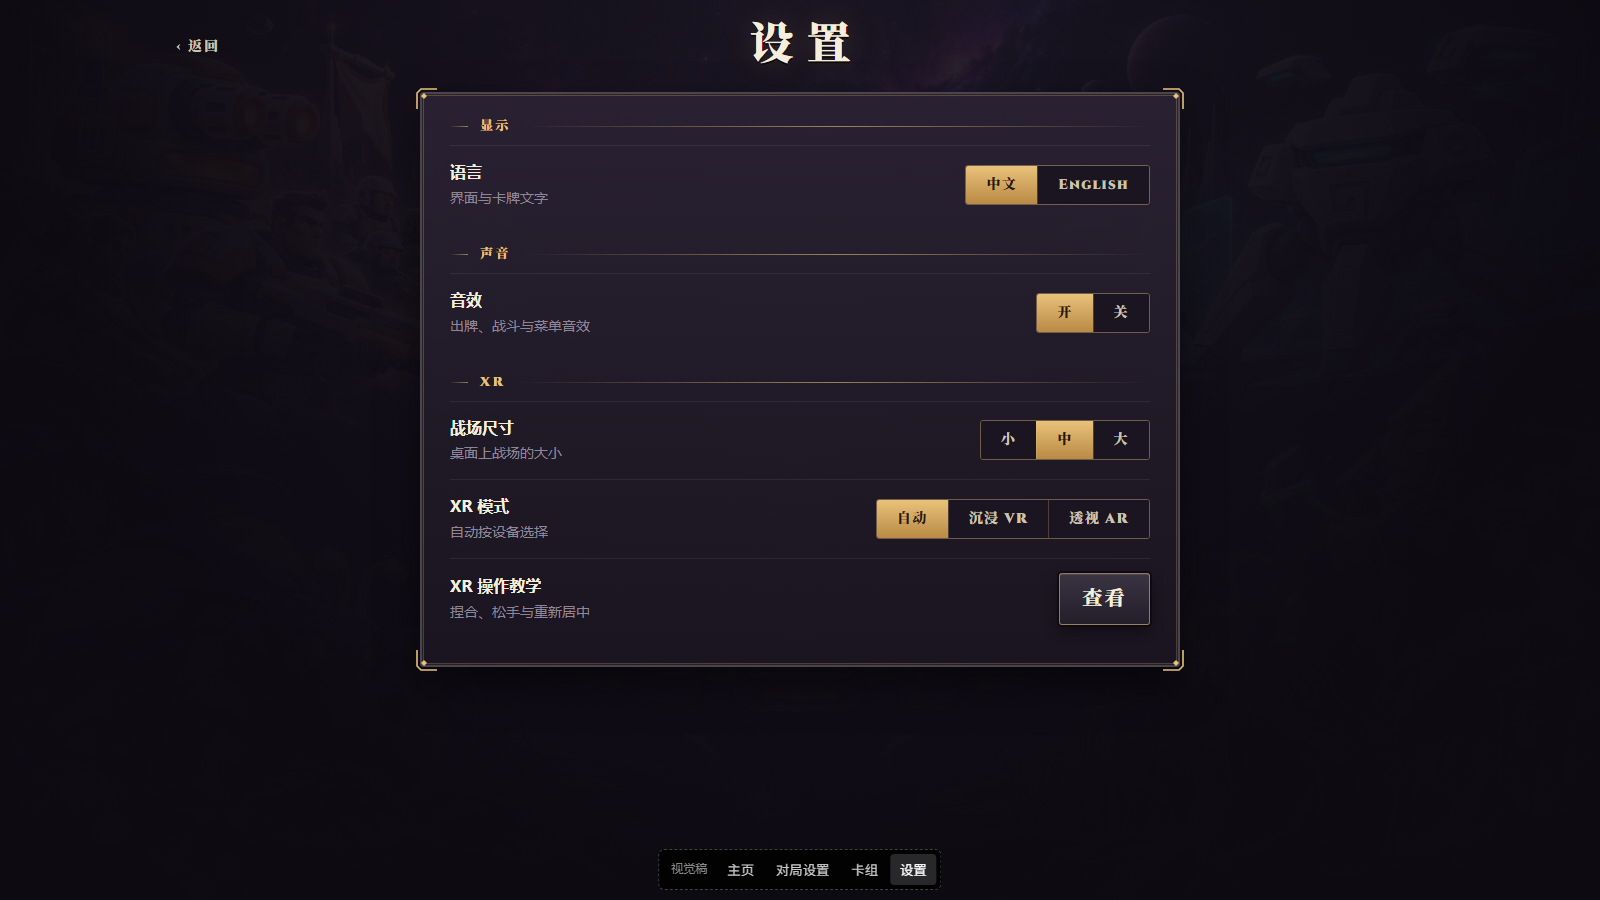
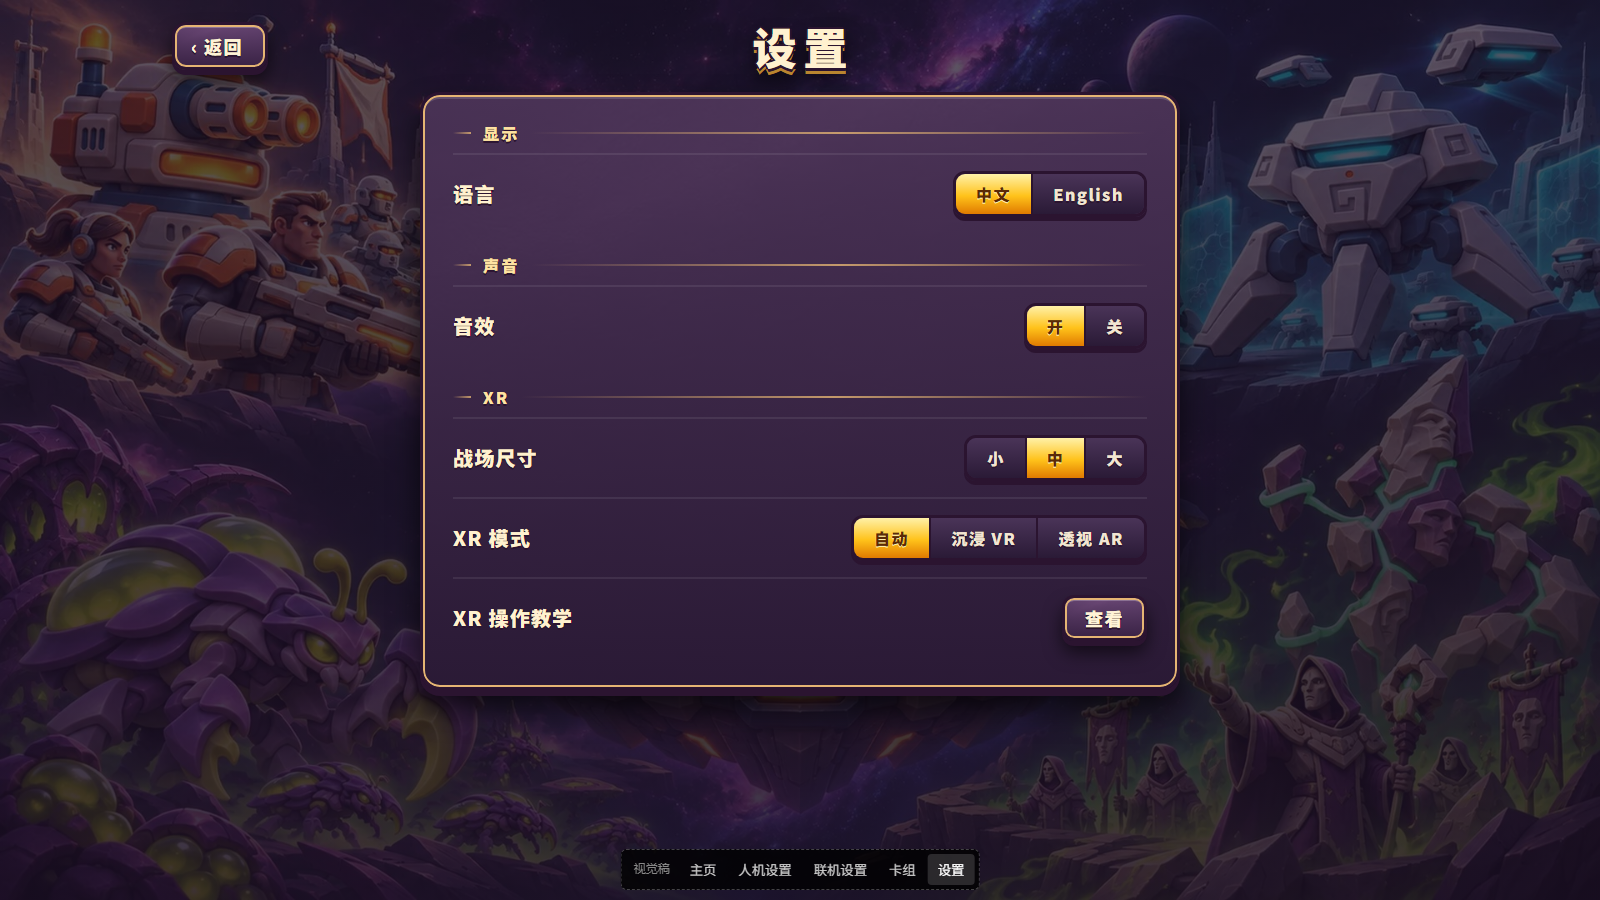
视觉稿 v0.4:对局设置/卡组/设置套用主页的游戏风格(粗黑体、珐琅/紫石板材质、厚描边立体按钮),去掉说明小字;计划记录修订

diff --git a/mockup/index.html b/mockup/index.html
@@ -5,11 +5,8 @@
 <meta name="viewport" content="width=device-width, initial-scale=1">
 <title>星轨对决 · 菜单视觉稿</title>
 <!-- 视觉稿:不接游戏逻辑,只验证设计语言(docs/ui-redesign-plan.md)。字体 OFL,见 fonts/ 下许可 -->
-<link rel="stylesheet" href="fonts-noto-serif-sc-900.css">
 <link rel="stylesheet" href="fonts-noto-sans-sc-900.css">
 <style>
-@font-face { font-family: 'Cinzel'; font-weight: 700; font-display: swap; src: url(fonts/cinzel-latin-700-normal.woff2) format('woff2'); }
-@font-face { font-family: 'Cinzel'; font-weight: 900; font-display: swap; src: url(fonts/cinzel-latin-900-normal.woff2) format('woff2'); }
 
 /* ── 设计 token(plan §1)── */
 :root {
@@ -18,7 +15,7 @@
   --gold: #e9c27a; --gold-hi: #ffe3a3; --gold-deep: #8a6332;
   --ink-1: #f6eedc; --ink-2: #cfc4b2; --ink-3: #8f8597;
   --danger: #e0685a; --ok: #7bc98a; --focus: #fff2a7;
-  --f-display: 'Cinzel', 'Noto Serif SC', 'Songti SC', serif;
+  --f-display: 'Noto Sans SC', 'Microsoft YaHei', sans-serif;   /* 全站展示字 = 粗黑体,与字标同一类厚重字形 */
   --f-body: 'Microsoft YaHei', 'PingFang SC', system-ui, sans-serif;
   --f-game: 'Noto Sans SC', 'Microsoft YaHei', sans-serif;   /* 主页按钮:粗黑体,呼应字标的厚重卡通字形 */
   --plum-line: #2b1430;   /* 按钮外描边 / 立体底边,取自字标底板 */
@@ -236,6 +233,69 @@ body {
   .mock-nav { display: none; }   /* 手机上用页面里的按钮跳转 */
   .pool { grid-template-columns: repeat(2, minmax(0, 1fr)); gap: 10px; padding: 12px; }
 }
+
+/* ═════ v0.4 二级页主题:与主页同一套——紫石板底板 + 金边 + 深紫粗描边 + 立体底边,粗黑体 ═════ */
+.screen.sub { background: linear-gradient(#1a0f24b3, #1a0f24d9), url(../assets/ui/bg_menu.webp) center / cover no-repeat, var(--bg-0); }
+.frame { background: linear-gradient(180deg, #4a3458e6, #2a1a36f2), url(../assets/ui/materials/plum-slate.webp) center / cover;
+  border: 3px solid var(--plum-line); border-radius: 20px;
+  box-shadow: inset 0 0 0 2px #e5b573, inset 0 4px 0 #ffffff26, 0 6px 0 var(--plum-line), 0 18px 30px #000a; }
+.frame.thin { border-width: 3px; box-shadow: inset 0 0 0 2px #e5b57399, 0 5px 0 var(--plum-line), 0 12px 22px #0009; }
+.topbar h1 { font: 900 var(--t-h1)/1.1 var(--f-display); letter-spacing: .16em; padding-left: .16em; color: #fff1cf;
+  text-shadow: 0 3px 0 var(--plum-line), 2px 0 0 var(--plum-line), -2px 0 0 var(--plum-line), 0 -2px 0 var(--plum-line), 0 6px 0 #b9852f, 0 12px 20px #000c; }
+.over { color: #ffe3a3; font-size: var(--t-body); letter-spacing: .14em; text-shadow: 0 2px 0 var(--plum-line); }
+.over::before, .over::after { background: linear-gradient(90deg, transparent, #e5b573cc, transparent); height: 2px; }
+.over::before { background: linear-gradient(90deg, transparent, #e5b573cc); }
+.g-sm { width: auto; height: 46px; padding: 0 20px; font-size: 18px; letter-spacing: .08em; border-radius: 12px; }
+.g-back { width: auto; height: 48px; padding: 0 22px 0 16px; font-size: 18px; letter-spacing: .08em; border-radius: 14px; }
+.g-go { width: auto; min-width: 260px; height: 76px; padding: 0 40px; font-size: 34px; }
+.choice { border: 3px solid var(--plum-line); border-radius: 14px; background: #1c1024; box-shadow: 0 4px 0 var(--plum-line); }
+.choice:hover { border-color: #e5b573; }
+.choice.sel { border-color: #ffd27a; box-shadow: 0 0 0 2px #ffd27a, 0 4px 0 var(--plum-line), 0 0 24px color-mix(in srgb, var(--fc, #ffd27a) 55%, transparent); }
+.choice .name { font-size: var(--t-body); letter-spacing: .06em; padding: 10px 12px 11px; background: linear-gradient(180deg, #3a2448, #24152e); text-shadow: 0 2px 0 var(--plum-line); }
+.choice.sel .name { color: #ffe3a3; }
+.diff { padding: 0; }
+.diff .name { justify-content: center; padding: 18px 0; font-size: var(--t-h3); background: linear-gradient(180deg, #4a3458, #2a1a36); }
+.choice.diff.sel .name { color: #5a2a06; background: linear-gradient(180deg, #fff1a8, #ffc21a 55%, #e07a00); text-shadow: 0 1px 0 #fff0b3; }
+.passive { border-left: 0; border-radius: 12px; background: #1a0f24b3; box-shadow: inset 0 0 0 2px color-mix(in srgb, var(--fc, #e5b573) 70%, transparent); }
+.passive b { font-size: var(--t-h3); color: #ffe3a3; text-shadow: 0 2px 0 var(--plum-line); }
+.passive p { color: #f2e6d2; font-size: var(--t-body); }
+.deckline { font-size: var(--t-body); color: #f2e6d2; }
+.map .preview { border: 3px solid var(--plum-line); border-radius: 14px; box-shadow: inset 0 0 0 2px #e5b573; }
+.map .preview h2 { font-size: var(--t-h2); letter-spacing: .1em; text-shadow: 0 3px 0 var(--plum-line); }
+.map .preview p { font-size: var(--t-body); color: #f2e6d2; }
+.seg { border: 3px solid var(--plum-line); border-radius: 12px; box-shadow: 0 4px 0 var(--plum-line); }
+.seg button { font-size: var(--t-body); padding: 12px 20px; background: linear-gradient(180deg, #4a3458, #2a1a36); color: #f2e6d2; text-shadow: 0 2px 0 var(--plum-line); }
+.seg button + button { border-left: 2px solid var(--plum-line); }
+.seg button.sel { background: linear-gradient(180deg, #fff1a8, #ffc21a 55%, #e07a00); color: #5a2a06; text-shadow: 0 1px 0 #fff0b3; }
+.input { border: 3px solid var(--plum-line); border-radius: 12px; background: #140a1c; box-shadow: inset 0 0 0 2px #e5b57366; font-size: var(--t-body); }
+.field span { font: 900 var(--t-body)/1 var(--f-display); color: #ffe3a3; letter-spacing: .08em; text-shadow: 0 2px 0 var(--plum-line); }
+.board li { font-size: var(--t-body); }
+.actionbar { background: linear-gradient(transparent, #1a0f24f2 45%); gap: 14px; }
+.card { border: 3px solid var(--plum-line); border-radius: 14px; background: linear-gradient(180deg, #4a3458, #22142c); box-shadow: 0 4px 0 var(--plum-line); }
+.card.in { border-color: #ffd27a; box-shadow: 0 0 0 2px #ffd27a, 0 4px 0 var(--plum-line); }
+.card img { border-radius: 11px 11px 0 0; background: radial-gradient(#5a4068, #22142c 72%); }
+.card .cname { font-size: var(--t-h3); text-shadow: 0 2px 0 var(--plum-line); }
+.card .meta { font-size: var(--t-small); color: #c9b8d6; }
+.card .desc { font-size: var(--t-small); color: #f2e6d2; }
+.cost { border: 2px solid var(--plum-line); box-shadow: 0 2px 0 var(--plum-line); }
+.card .tick { border: 2px solid var(--plum-line); color: #5a2a06; }
+.roster li { border-radius: 10px; background: #1a0f24b3; border: 2px solid #ffffff14; font: 900 var(--t-body)/1.2 var(--f-display); }
+.curve div { background: linear-gradient(180deg, #fff1a8, #ffc21a 55%, #e07a00); border: 2px solid var(--plum-line); border-bottom: 0; border-radius: 6px 6px 0 0; }
+.stat { font-size: var(--t-body); color: #f2e6d2; }
+.stat b { font-size: var(--t-h2); color: #ffe3a3; text-shadow: 0 2px 0 var(--plum-line); }
+.row { border-top: 2px solid #ffffff14; padding: 16px 0; }
+.row b { font: 900 var(--t-h3)/1.2 var(--f-display); color: #fff1cf; letter-spacing: .06em; text-shadow: 0 2px 0 var(--plum-line); }
+.settings { padding: 12px 30px 24px; }
+.roster li { padding: 4px 8px; }
+.roster li img { width: 30px; height: 30px; }
+.curve { height: 56px; margin-top: 12px; }
+@media (max-width: 720px) {
+  .g-go { min-width: 0; flex: 1; height: 64px; font-size: 28px; }
+  .g-back { height: 44px; font-size: 16px; padding: 0 14px 0 10px; }
+  .topbar h1 { letter-spacing: .08em; }
+  .settings { padding: 8px 18px 18px; }
+  .row { grid-template-columns: 1fr; gap: 10px; }
+}
 </style>
 </head>
 <body>
@@ -262,37 +322,37 @@ body {
 <section class="screen sub" id="s-setup">
   <div class="page">
     <header class="topbar">
-      <div><button class="btn btn-text" data-go="s-home">‹ 返回</button></div>
+      <div><button class="g-btn g-plum g-back" data-go="s-home">‹ 返回</button></div>
       <h1 id="setup-title">人机对战</h1>
-      <div class="right"><button class="icon-btn" title="音效">🔊</button></div>
+      <div class="right"><button class="g-btn g-plum round-btn" title="音效">🔊</button></div>
     </header>
     <div class="setup">
       <div>
         <section class="slot frame">
-          <span class="corners"><i></i><i></i><i></i><i></i></span>
+          
           <h2 class="over">我方</h2>
           <div class="factions" id="factions"></div>
           <div class="passive" id="passive"></div>
-          <div class="deckline"><span id="deckline"></span><button class="btn btn-text" data-go="s-deck">编辑卡组 ›</button></div>
+          <div class="deckline"><span id="deckline"></span><button class="g-btn g-plum g-sm" data-go="s-deck">编辑卡组</button></div>
         </section>
         <section class="slot frame">
-          <span class="corners"><i></i><i></i><i></i><i></i></span>
+          
           <h2 class="over" id="opp-title">对手 · 电脑</h2>
-          <p class="muted" id="opp-hint" style="margin:0"></p>
+          
           <div class="diffs" id="diffs">
-            <button class="choice diff"><span class="name">简单</span><small>适合熟悉卡牌</small></button>
-            <button class="choice diff sel"><span class="name">普通</span><small>会补位、会拆塔</small></button>
-            <button class="choice diff"><span class="name">困难</span><small>会算费、会集火</small></button>
+            <button class="choice diff"><span class="name">简单</span></button>
+            <button class="choice diff sel"><span class="name">普通</span></button>
+            <button class="choice diff"><span class="name">困难</span></button>
           </div>
           <div class="online" id="online">
             <label class="field"><span>昵称</span><input class="input" placeholder="留空则随机命名"></label>
-            <div class="field"><span>加入好友的房间</span><div class="join"><input class="input" maxlength="4" placeholder="ABCD"><button class="btn btn-secondary">加入</button></div></div>
+            <div class="field"><span>房号</span><div class="join"><input class="input" maxlength="4" placeholder="ABCD"><button class="g-btn g-blue g-sm">加入</button></div></div>
           </div>
         </section>
       </div>
       <div>
         <section class="map frame">
-          <span class="corners"><i></i><i></i><i></i><i></i></span>
+          
           <h2 class="over">战场</h2>
           <div class="preview"><img id="map-img" alt=""><div class="cap"><h2 id="map-name"></h2><p id="map-desc"></p></div></div>
           <div class="maps" id="maps"></div>
@@ -305,8 +365,7 @@ body {
     </div>
   </div>
   <div class="actionbar">
-    <span class="hint" id="go-hint">钢铁联盟 对阵 随机势力 · 普通</span>
-    <button class="btn btn-primary" id="go">开　战</button>
+        <button class="g-btn g-gold g-go" id="go">开战</button>
   </div>
 </section>
 
@@ -314,18 +373,18 @@ body {
 <section class="screen sub" id="s-deck">
   <div class="page">
     <header class="topbar">
-      <div><button class="btn btn-text" data-go="s-setup">‹ 返回</button></div>
+      <div><button class="g-btn g-plum g-back" data-go="s-setup">‹ 返回</button></div>
       <h1>卡组</h1>
-      <div class="right"><button class="icon-btn" title="音效">🔊</button></div>
+      <div class="right"><button class="g-btn g-plum round-btn" title="音效">🔊</button></div>
     </header>
     <div class="deck">
       <section class="frame" style="padding:0">
-        <span class="corners"><i></i><i></i><i></i><i></i></span>
+        
         <div style="padding:18px 18px 0"><h2 class="over">钢铁联盟 · 可用卡牌</h2></div>
         <div class="pool" id="pool"></div>
       </section>
       <aside class="roster frame">
-        <span class="corners"><i></i><i></i><i></i><i></i></span>
+        
         <h2 class="over">出战卡组</h2>
         <ol id="roster"></ol>
         <div class="curve" id="curve"></div>
@@ -336,9 +395,9 @@ body {
     </div>
   </div>
   <div class="actionbar">
-    <button class="btn btn-text" id="preset">推荐卡组</button>
-    <button class="btn btn-text" data-go="s-setup">取消</button>
-    <button class="btn btn-primary" data-go="s-setup">保　存</button>
+    <button class="g-btn g-plum g-sm" id="preset">推荐卡组</button>
+    <button class="g-btn g-plum g-sm" data-go="s-setup">取消</button>
+    <button class="g-btn g-gold g-go" data-go="s-setup">保存</button>
   </div>
 </section>
 
@@ -346,22 +405,22 @@ body {
 <section class="screen sub" id="s-settings">
   <div class="page">
     <header class="topbar">
-      <div><button class="btn btn-text" data-go="s-home">‹ 返回</button></div>
+      <div><button class="g-btn g-plum g-back" data-go="s-home">‹ 返回</button></div>
       <h1>设置</h1>
       <div class="right"></div>
     </header>
     <div class="settings frame">
-      <span class="corners"><i></i><i></i><i></i><i></i></span>
+      
       <div class="group"><h2 class="over">显示</h2>
-        <div class="row"><div><b>语言</b><small>界面与卡牌文字</small></div><div class="seg"><button class="sel">中文</button><button>English</button></div></div>
+        <div class="row"><div><b>语言</b></div><div class="seg"><button class="sel">中文</button><button>English</button></div></div>
       </div>
       <div class="group"><h2 class="over">声音</h2>
-        <div class="row"><div><b>音效</b><small>出牌、战斗与菜单音效</small></div><div class="seg"><button class="sel">开</button><button>关</button></div></div>
+        <div class="row"><div><b>音效</b></div><div class="seg"><button class="sel">开</button><button>关</button></div></div>
       </div>
       <div class="group"><h2 class="over">XR</h2>
-        <div class="row"><div><b>战场尺寸</b><small>桌面上战场的大小</small></div><div class="seg"><button>小</button><button class="sel">中</button><button>大</button></div></div>
-        <div class="row"><div><b>XR 模式</b><small>自动按设备选择</small></div><div class="seg"><button class="sel">自动</button><button>沉浸 VR</button><button>透视 AR</button></div></div>
-        <div class="row"><div><b>XR 操作教学</b><small>捏合、松手与重新居中</small></div><button class="btn btn-secondary">查看</button></div>
+        <div class="row"><div><b>战场尺寸</b></div><div class="seg"><button>小</button><button class="sel">中</button><button>大</button></div></div>
+        <div class="row"><div><b>XR 模式</b></div><div class="seg"><button class="sel">自动</button><button>沉浸 VR</button><button>透视 AR</button></div></div>
+        <div class="row"><div><b>XR 操作教学</b></div><button class="g-btn g-plum g-sm">查看</button></div>
       </div>
     </div>
   </div>
@@ -414,7 +473,7 @@ function renderSetup() {
     <img class="art" src="../assets/ui/factions/${f.id}.webp" alt=""><span class="name"><img src="../assets/emblems/emblem_${f.id}.webp" alt="">${f.name}</span></button>`).join('');
   $('#passive').style.setProperty('--fc', fac.color);
   $('#passive').innerHTML = `<b>阵营特性 · ${fac.passive[0]}</b><p>${fac.passive[1]}</p>`;
-  $('#deckline').textContent = `卡组：推荐卡组 · 8 张 · 平均 3.5 费`;
+  $('#deckline').textContent = `推荐卡组 · 均费 3.5`;
   $('#maps').innerHTML = MAPS.map(m => `<button class="choice${m === map ? ' sel' : ''}" data-m="${m.id}">
     <img class="art" src="${m.img || `../assets/scenes/${m.id}/concept.webp`}" alt=""><span class="name">${m.name}</span></button>`).join('');
   $('#map-img').src = map.img || `../assets/scenes/${map.id}/concept.webp`;
@@ -423,9 +482,7 @@ function renderSetup() {
   $('#setup-title').textContent = online ? '联机对战' : '人机对战';
   $('#opp-title').textContent = online ? '对手 · 好友' : '对手 · 电脑';
   $('#diffs').hidden = online; $('#online').classList.toggle('on', online); $('#board').hidden = !online;
-  $('#opp-hint').textContent = online ? '建房后把房号发给好友；或者输入好友的房号加入' : '选择电脑难度';
-  $('#go').textContent = online ? '创建房间' : '开　战';
-  $('#go-hint').textContent = online ? `${fac.name} · ${map.name} · 等待好友加入` : `${fac.name} 对阵 随机势力 · ${map.name} · 普通`;
+  $('#go').textContent = online ? '创建房间' : '开战';
 }
 $('#factions').addEventListener('click', e => { const b = e.target.closest('[data-f]'); if (b) { fac = FACTIONS.find(f => f.id === b.dataset.f); renderSetup(); } });
 $('#maps').addEventListener('click', e => { const b = e.target.closest('[data-m]'); if (b) { map = MAPS.find(m => m.id === b.dataset.m); renderSetup(); } });

diff --git a/docs/ui-redesign-plan.md b/docs/ui-redesign-plan.md
@@ -16,6 +16,13 @@
 
 ## 1. 设计语言：「指挥台」
 
+> **2026-11-20 按批注修订（视觉稿 v0.3–v0.4，以 `mockup/index.html` 为准）**：暗色衬线的“古典指挥台”与游戏的卡通美术不匹配，已改为**跟随字标和游戏自带材质**：
+> - 字体：全站展示字改用**思源黑体 Black（Noto Sans SC 900）**，与字标同类厚重字形；不再使用思源宋体与 Cinzel。
+> - 材质：按钮用游戏自带的**金色珐琅（主）/ 蓝色珐琅（联机、加入）/ 紫石板 + 金边（其余）**；面板 = 紫石板底 + 金色内边 + 深紫粗描边 + 立体底边（同字标底板）；去掉古典角饰。
+> - 交互反馈：按钮统一“3px 深紫描边 + 6px 立体底边”，按下下沉 4px。
+> - 文案：去掉按钮下和设置项下的说明小字；保留玩法必需信息（阵营特性、战场说明、卡牌描述）。
+> 下文 1.1–1.4 中与此冲突的条目以本修订为准。
+
 用 RTS 的**战争议事厅**作隐喻：菜单是一张镶金的指挥台，按钮是嵌在台上的铭牌，面板是锻造金属框。科幻题材，所以材质用**深色锻钢 + 金色描边 + 晶体辉光**，不用羊皮纸和木头。原创设计：只借鉴 RTS 的结构原则，不复制任何游戏的素材、字形或界面。
 
 ### 1.1 字体（两层）
